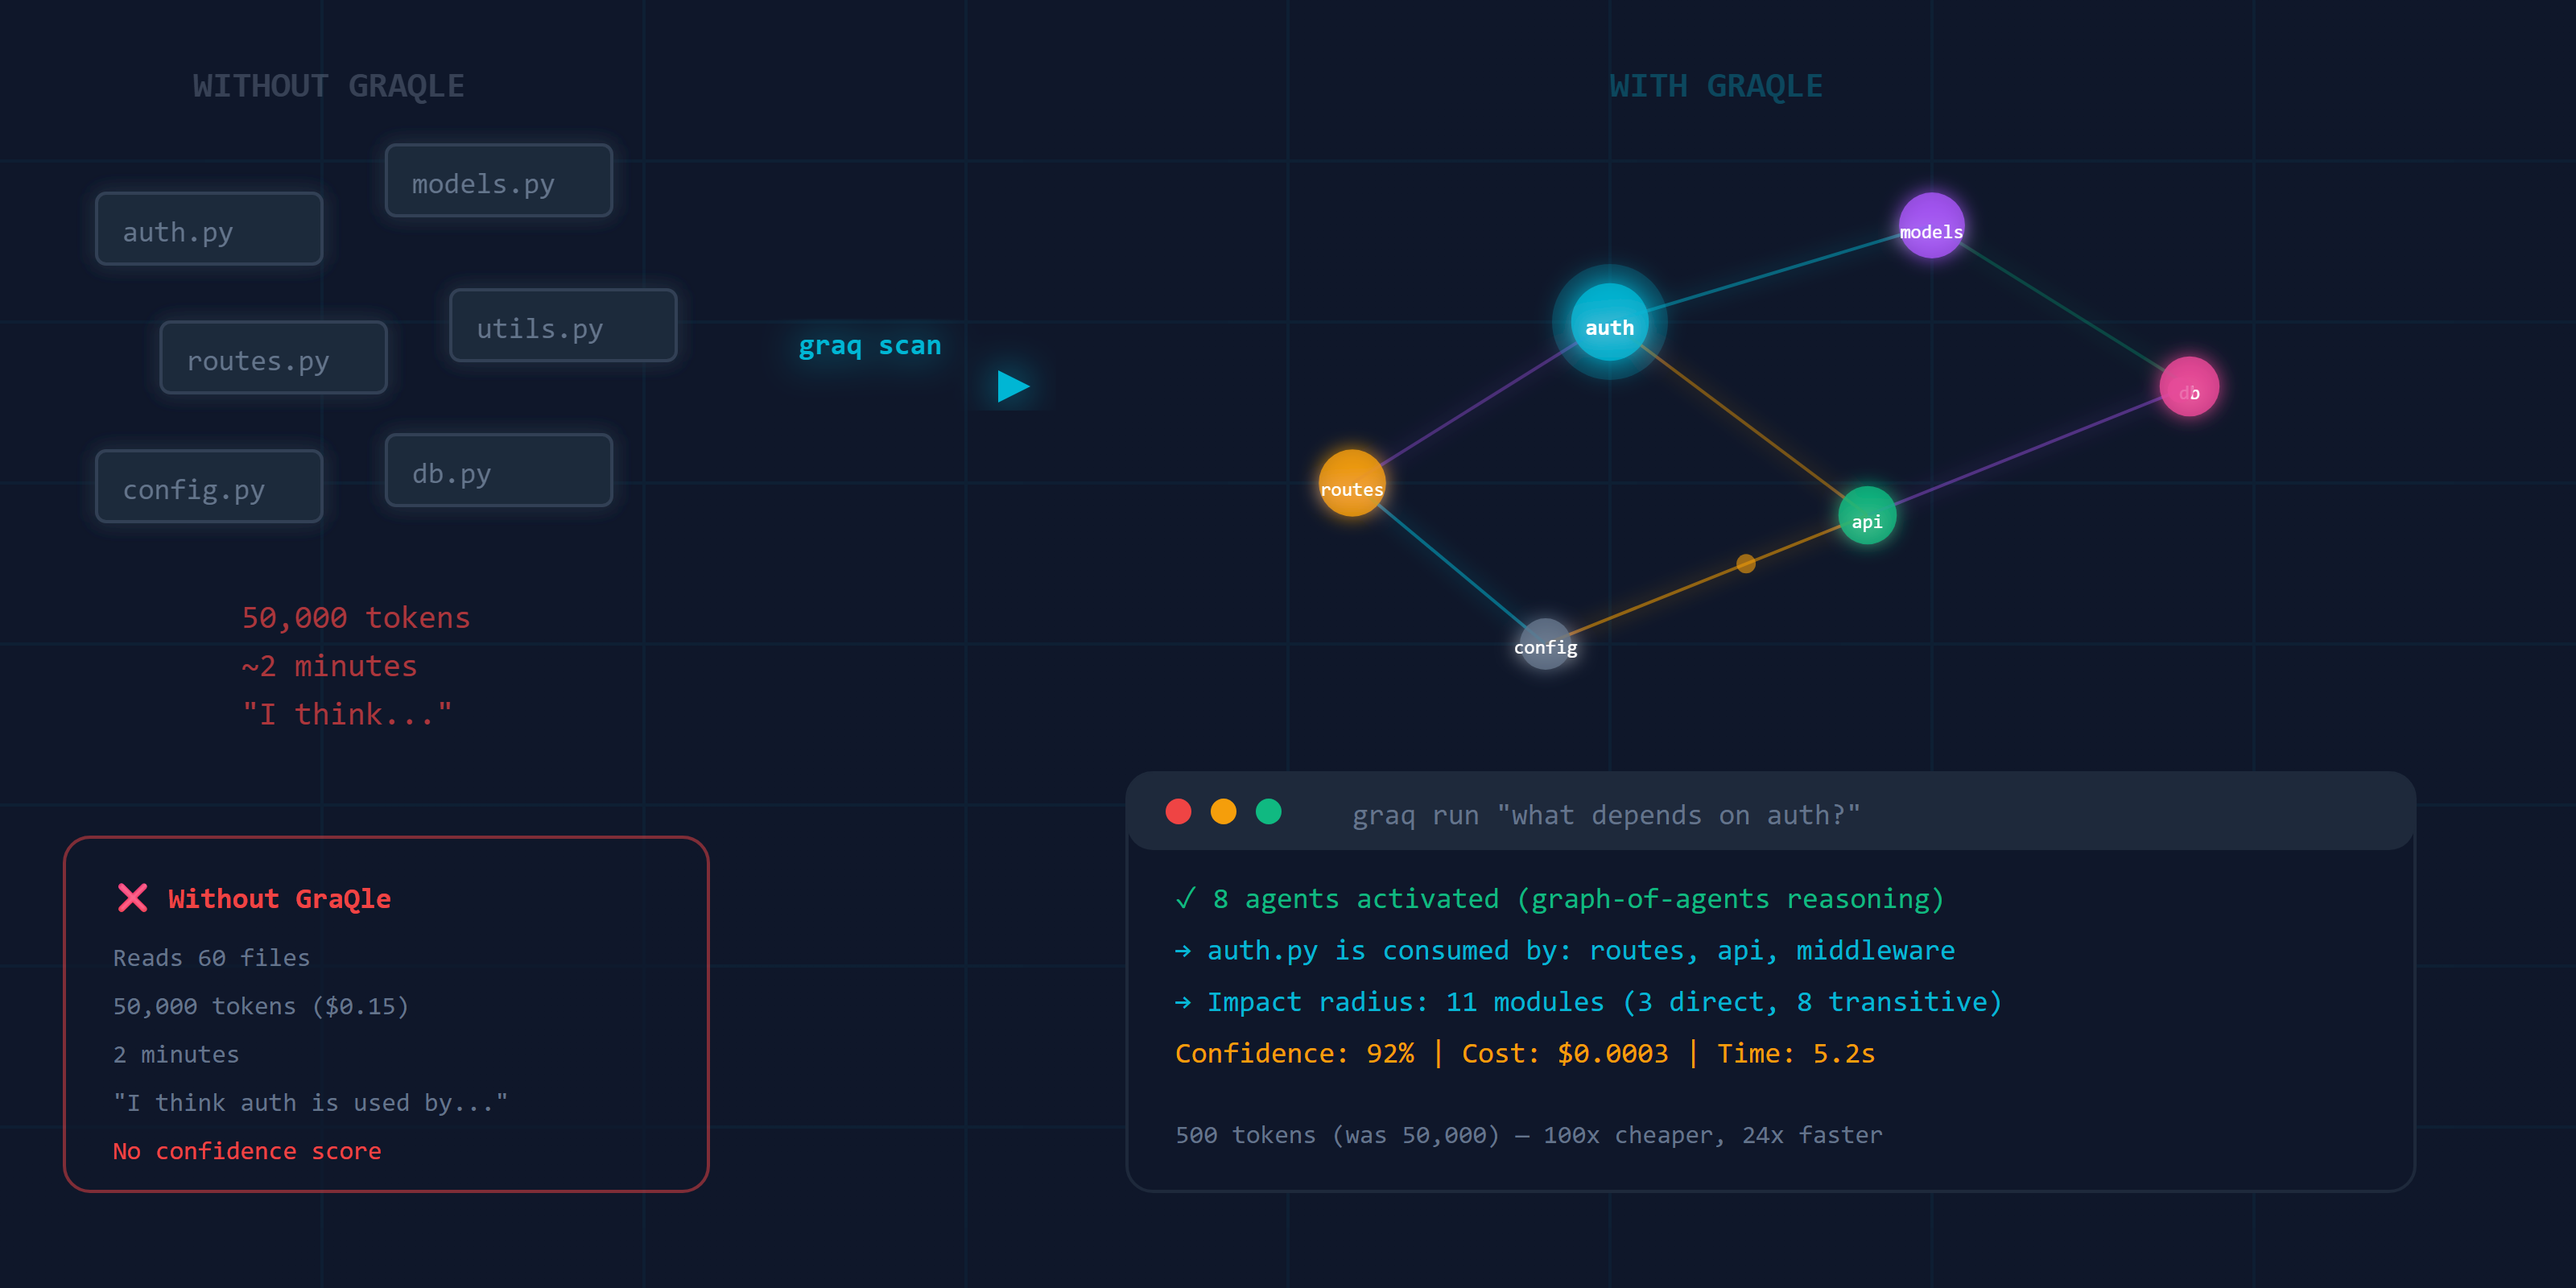
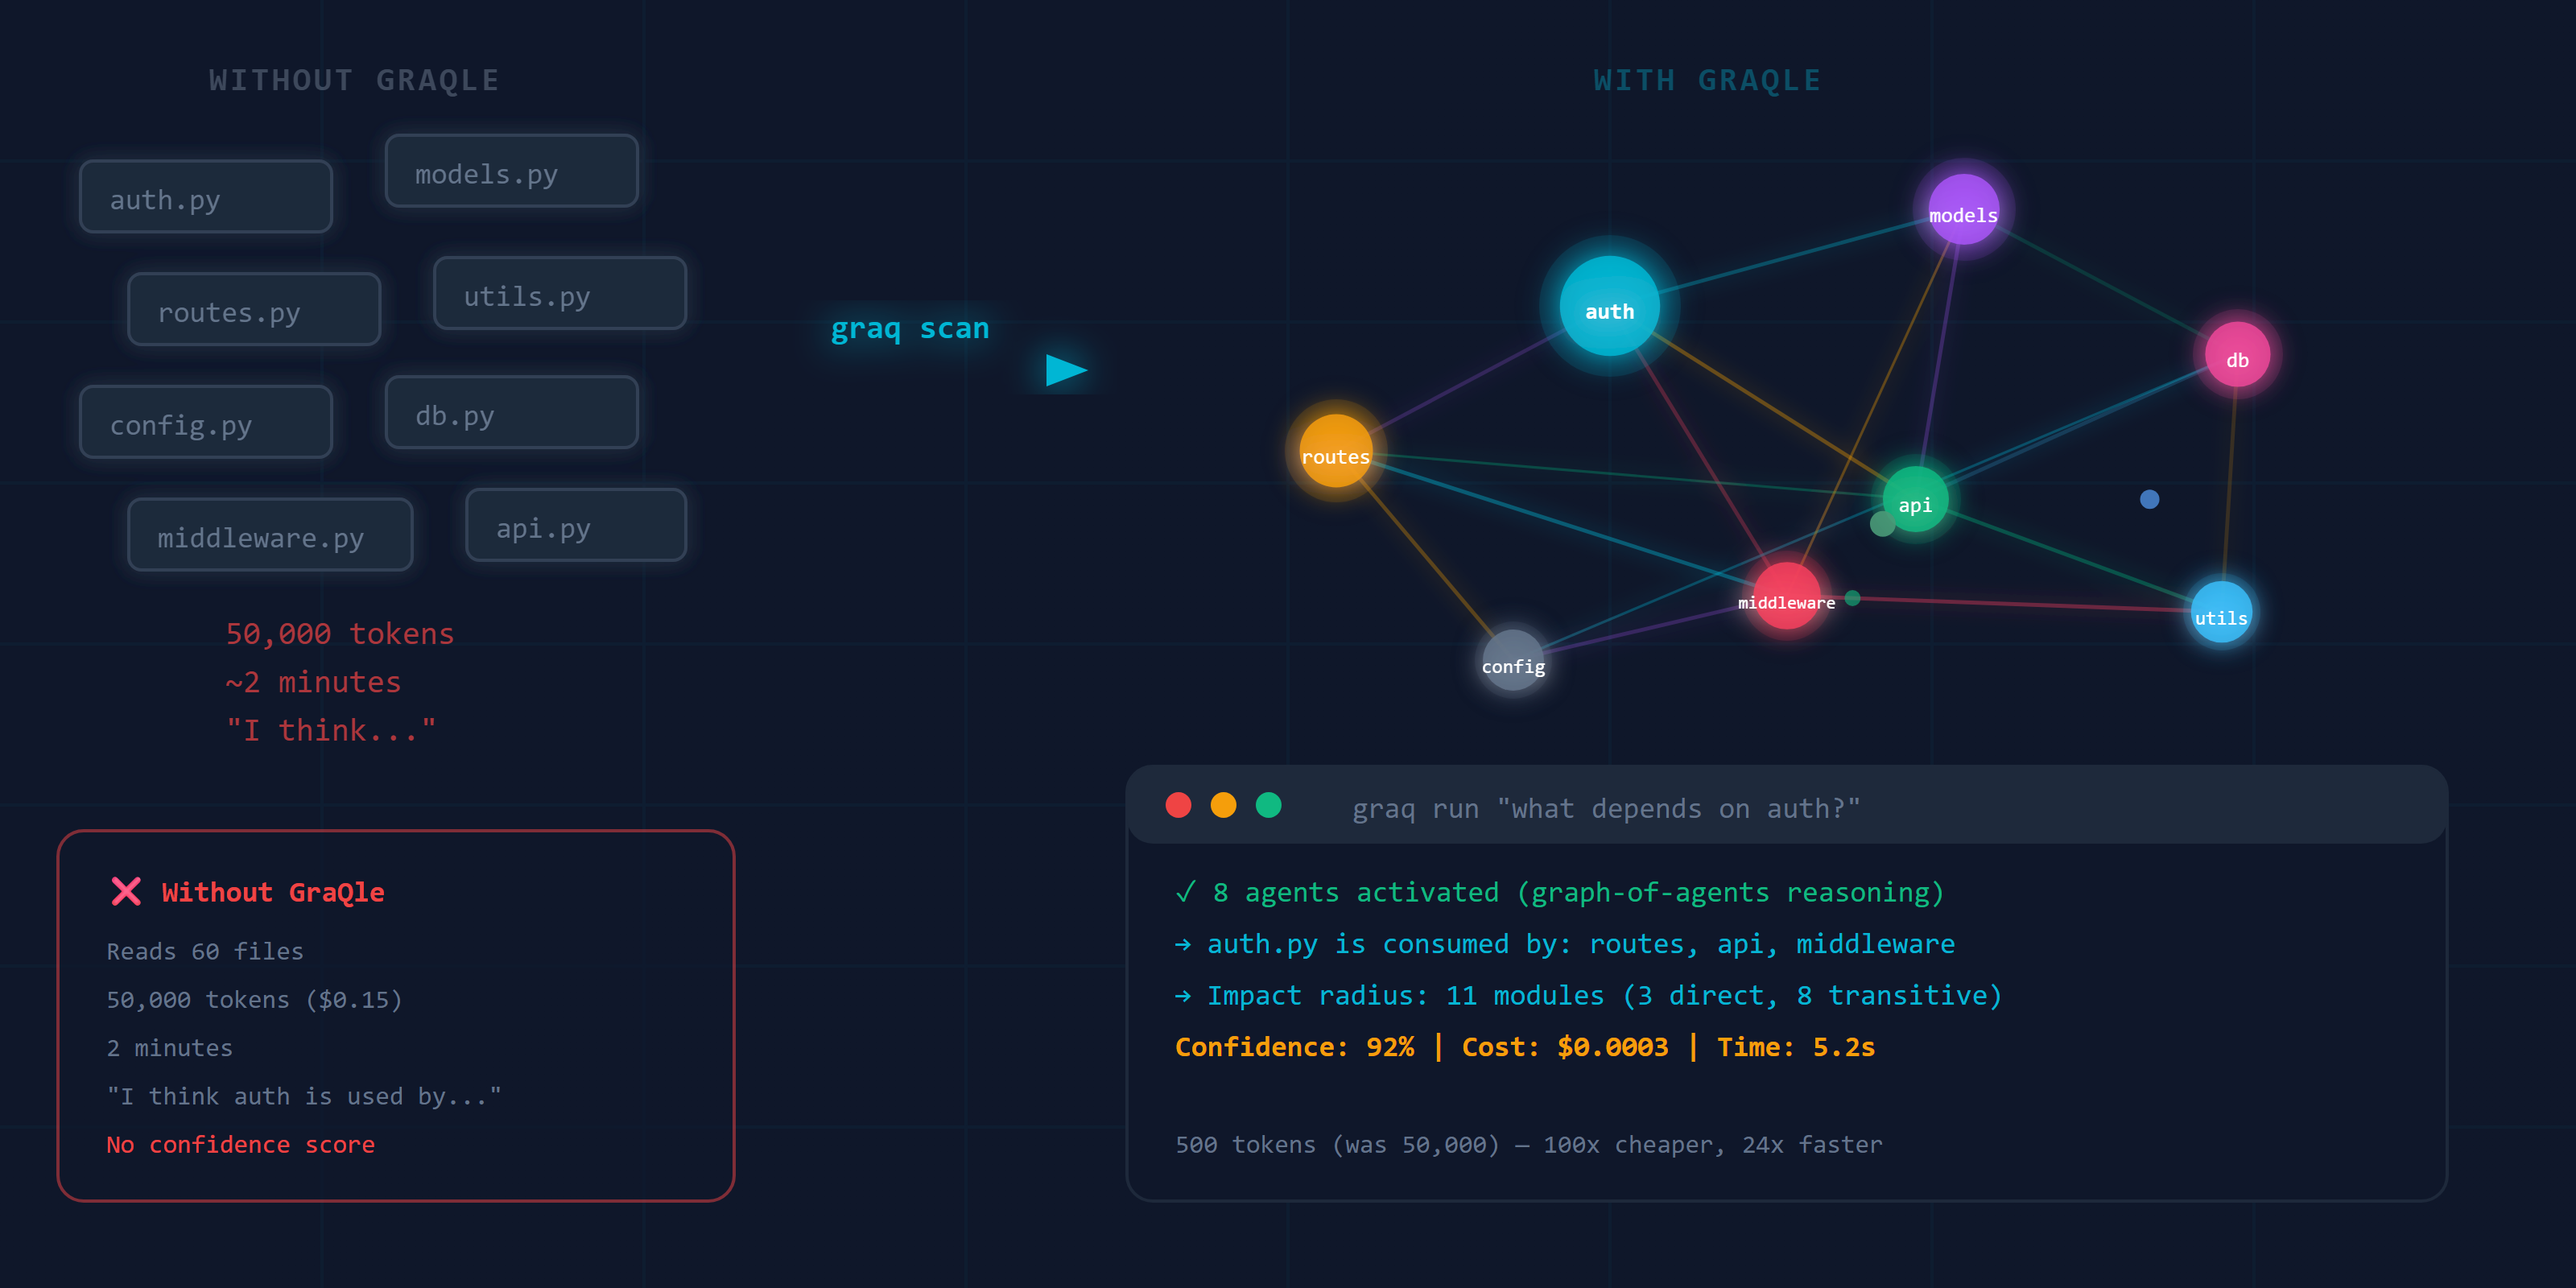
feat: enhanced hero SVG — 8 nodes, 18 edges, 3 particles (v0.32.4)
SVG now shows all 8 agents matching terminal output: auth, models,
routes, api, db, config, middleware, utils. 18 animated connections,
3 message-passing particles. HQ PNG re-rendered at 3200x1600 for
crisp PyPI display. Dual rendering: animated SVG on GitHub,
HQ PNG on PyPI via <picture> tag.

diff --git a/graqle/__version__.py b/graqle/__version__.py
@@ -5,4 +5,4 @@
 # constraints: none
 # ── /graqle:intelligence ──
 
-__version__ = "0.32.3"
+__version__ = "0.32.4"
